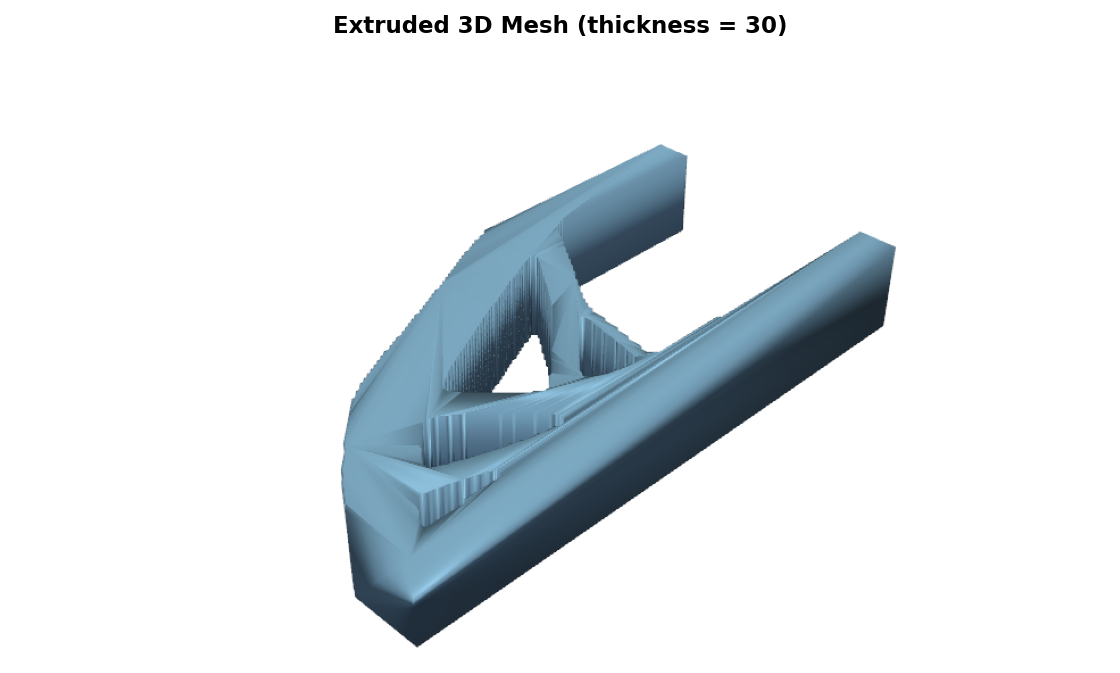
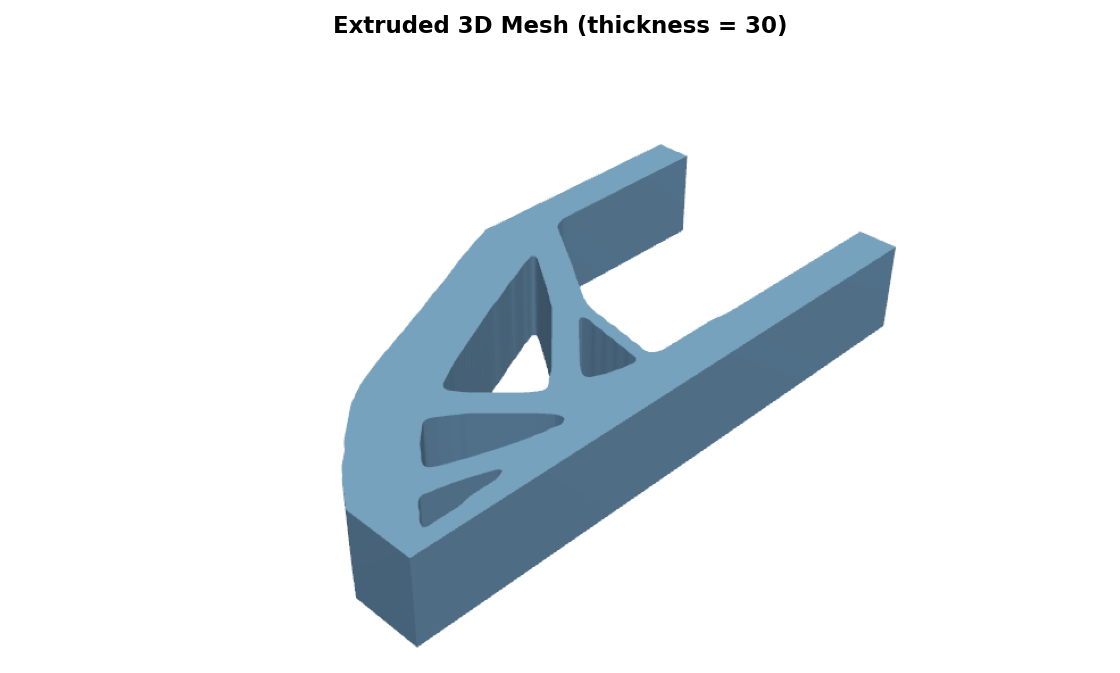
fix(extrude): trace continuous field for sub-pixel walls
extrude_2d was running find_contours on the binarized mask, which
discards all sub-pixel information from the pre-threshold smoothing
and forces every traced contour onto pixel edges. The consequence was
visible as staircase zigzag on any oblique sidewall of the extruded
mesh.

Root-cause fix: add _build_signed_field(field, binary, ...) which
rebuilds the continuous signed field (positive inside, zero on
boundary) and only clamps pixels that the cleanup steps (fill_holes,
min_component_area) actively removed — natural boundaries stay
symmetric so a solid binary block still traces at integer pixel
positions. _trace_contours now dispatches on dtype: bool keeps the
old pixel-aligned behavior (backward-compatible for the existing
white-box tests), float traces the zero-iso of the signed field with
sub-pixel precision. extrude_2d drives the float path.

Also fixes the docs 3D render: smooth_shading=True was averaging
normals across the cap-to-wall seam and falsely banding the cap.
Switched to flat shading so each cap facet uses its own +z normal
and the (mathematically planar) top reads as uniformly lit.

Regenerated both docs images; all 269 tests pass; PROGRESS.md
records the root cause and prevention guidance.

diff --git a/src/xeltofab/extrude.py b/src/xeltofab/extrude.py
@@ -51,11 +51,49 @@ def _build_binary(
     return binary
 
 
-def _trace_contours(binary: np.ndarray) -> list[np.ndarray]:
-    """Trace closed contours from a bool mask in canonical (x, y) coordinates."""
-    padded = np.pad(binary.astype(float), 1, constant_values=0.0)
-    raw = find_contours(padded, 0.5)
+def _trace_contours(data: np.ndarray) -> list[np.ndarray]:
+    """Trace closed contours in canonical (x, y) coordinates.
+
+    Dispatches on dtype: a bool mask traces the pixel-aligned 0.5-iso of the
+    mask; a float signed field traces the zero-iso with sub-pixel precision.
+    ``extrude_2d`` drives the float path so sidewalls follow the continuous
+    iso-surface rather than pixel staircases.
+    """
+    if data.dtype == bool:
+        padded = np.pad(data.astype(float), 1, constant_values=0.0)
+        raw = find_contours(padded, 0.5)
+    else:
+        pad_value = min(float(data.min()), 0.0) - 1.0
+        padded = np.pad(data, 1, constant_values=pad_value)
+        raw = find_contours(padded, 0.0)
     return [np.column_stack([contour[:, 1] - 1.0, contour[:, 0] - 1.0]) for contour in raw]
+
+
+def _build_signed_field(
+    field: np.ndarray,
+    binary: np.ndarray,
+    *,
+    field_type: Literal["density", "sdf"],
+    level: float | None,
+    smooth_sigma: float,
+) -> np.ndarray:
+    """Build a continuous signed field aligned with the cleaned binary mask.
+
+    The returned array is positive where the material sits (inside the iso-
+    surface), negative outside, and zero on the boundary. Only pixels that
+    the cleanup steps (``fill_holes``, ``min_component_area``) actively
+    removed are clamped below zero — natural boundaries keep their
+    symmetric sub-pixel positions, so a solid binary block still traces as
+    an integer-sized rectangle.
+    """
+    eff_level = level if level is not None else (0.0 if field_type == "sdf" else 0.5)
+    smoothed = gaussian_filter(field, sigma=smooth_sigma) if smooth_sigma > 0.0 else field
+    signed = (eff_level - smoothed) if field_type == "sdf" else (smoothed - eff_level)
+    cleanup_removed = (~binary) & (signed > 0.0)
+    if cleanup_removed.any():
+        suppress = -(float(signed.max()) + 1.0)
+        signed = np.where(cleanup_removed, suppress, signed)
+    return signed
 
 
 def _collect_polygons(geom: object) -> list[Polygon]:
@@ -220,7 +258,14 @@ def extrude_2d(
         fill_holes=fill_holes,
         min_component_area=min_component_area,
     )
-    contours = _trace_contours(binary)
+    signed = _build_signed_field(
+        field,
+        binary,
+        field_type=field_type,
+        level=level,
+        smooth_sigma=smooth_sigma,
+    )
+    contours = _trace_contours(signed)
     height, width = binary.shape
     multi_poly = _polygonize(contours, height=height, width=width)
     return _build_prism_mesh(multi_poly, thickness=thickness)

diff --git a/scripts/generate_doc_images.py b/scripts/generate_doc_images.py
@@ -840,7 +840,7 @@ def gen_extrude_2d_contour() -> None:
     from matplotlib.lines import Line2D
     from shapely.geometry import LinearRing
 
-    from xeltofab.extrude import _build_binary, _trace_contours
+    from xeltofab.extrude import _build_binary, _build_signed_field, _trace_contours
     from xeltofab.io import load_field
 
     state = load_field(_EXTRUDE_FIXTURE)
@@ -854,7 +854,14 @@ def gen_extrude_2d_contour() -> None:
         fill_holes=False,
         min_component_area=0,
     )
-    contours = _trace_contours(binary)
+    signed = _build_signed_field(
+        field,
+        binary,
+        field_type="density",
+        level=0.5,
+        smooth_sigma=0.0,
+    )
+    contours = _trace_contours(signed)
 
     fig, (ax_in, ax_out) = plt.subplots(1, 2, figsize=(10, 3.2))
     fig.patch.set_facecolor(BG_COLOR)
@@ -901,13 +908,24 @@ def gen_extrude_2d_mesh() -> None:
     state = load_field(_EXTRUDE_FIXTURE)
     mesh = extrude_2d(state.field, thickness=30.0)
 
-    # Custom render: drop edges (earcut fan triangulation reads as noise),
-    # enable smooth shading with a subtle light for depth cues.
     faces_pv = np.column_stack([np.full(len(mesh.faces), 3), mesh.faces]).ravel()
     pv_mesh = pv.PolyData(mesh.vertices.astype(np.float64), faces_pv)
 
+    # Flat shading (smooth_shading=False) with no edges: each cap facet
+    # uses its own +z face normal so the top reads as uniformly lit,
+    # revealing that it is actually planar (earcut's fan triangulation is
+    # geometrically flat; smooth shading averages normals across the
+    # cap-to-wall seam and falsely bands the cap).
     pl = pv.Plotter(off_screen=True, window_size=[960, 540])
-    pl.add_mesh(pv_mesh, color="#88BDE6", smooth_shading=True, specular=0.25, specular_power=15)
+    pl.add_mesh(
+        pv_mesh,
+        color="#88BDE6",
+        smooth_shading=False,
+        ambient=0.25,
+        diffuse=0.7,
+        specular=0.15,
+        specular_power=10,
+    )
     pl.camera_position = "iso"
     pl.camera.zoom(1.25)
     pl.set_background(BG_COLOR)

diff --git a/docs/PROGRESS.md b/docs/PROGRESS.md
@@ -6,6 +6,18 @@ Session log of learnings, failures, solutions discovered, and context gathered d
 
 ## Accumulated Project Wisdom
 
+### 2026-04-22 — extrude_2d Traced Binary Mask Instead of Continuous Field
+
+**Problem:** Extruded meshes produced by `extrude_2d` showed pronounced staircase zigzag on any sidewall not aligned with the pixel grid. Docs images revealed jagged oblique walls despite the mesh being mathematically watertight.
+
+**Root cause:** `_trace_contours` ran `skimage.measure.find_contours` on the boolean binary mask at iso=0.5. Because the binary only has values 0 or 1, the zero-iso lies exactly at pixel edges — all sub-pixel information from the original continuous field (and any `smooth_sigma`) was thrown away by the threshold step before tracing. The main pipeline (`extract.py::_extract_2d`) already traces the continuous field directly, so the staircase artifact was unique to `extrude_2d`.
+
+**Resolution:** Added `_build_signed_field(field, binary, *, field_type, level, smooth_sigma)` which rebuilds the continuous signed field (positive inside, zero on boundary) and selectively clamps only the regions that the cleanup steps (`fill_holes`, `min_component_area`) actively removed — leaving natural boundaries symmetric so a solid binary block still traces at integer pixel boundaries. `_trace_contours` now dispatches on dtype: bool → old pixel-aligned behavior (kept for existing tests), float → zero-iso on the signed field with sub-pixel precision. `extrude_2d` uses the float path. All 269 tests still pass. Fix: `<commit TBD>`.
+
+**Prevention:** When a tracer operates on a thresholded mask, it should either be documented as pixel-aligned OR operate on the continuous pre-threshold field. The choice is not neutral — any oblique geometry inherits the tracer's sampling. Cross-check new modules that trace iso-surfaces against the established pipeline: if the main pipeline uses continuous tracing, a new path should too unless there's an explicit reason to diverge.
+
+---
+
 ### 2026-04-15 — SDF→Density Converter Added
 
 **Problem:** Third-party consumers (EngiBench and density-only TO solvers) needed to feed SDF arrays into the density-mode pipeline, but no explicit conversion utility existed. Callers had to hand-roll thresholds, risking inconsistent iso-surface conventions.
